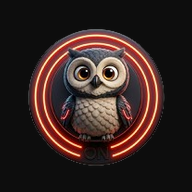
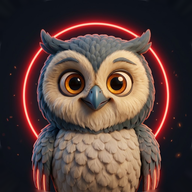
Ícone novo do app com a coruja oficial (normal e versão recortável pro Android) (SW v456)
Claude-Session: https://claude.ai/code/session_014QaCYcBnSGNdjBDUReP187

diff --git a/service-worker.js b/service-worker.js
@@ -66,7 +66,7 @@ self.addEventListener('notificationclick', function (event) {
   );
 });
 
-const CACHE = 'angatubaon-v455';
+const CACHE = 'angatubaon-v456';
 // Cache separado dos assets dos jogos (sprites, sons, músicas, vídeos
 // dos minigames). Fica de fora do CACHE principal de propósito: o
 // activate() abaixo NUNCA apaga o CACHE_JOGOS quando o app atualiza
